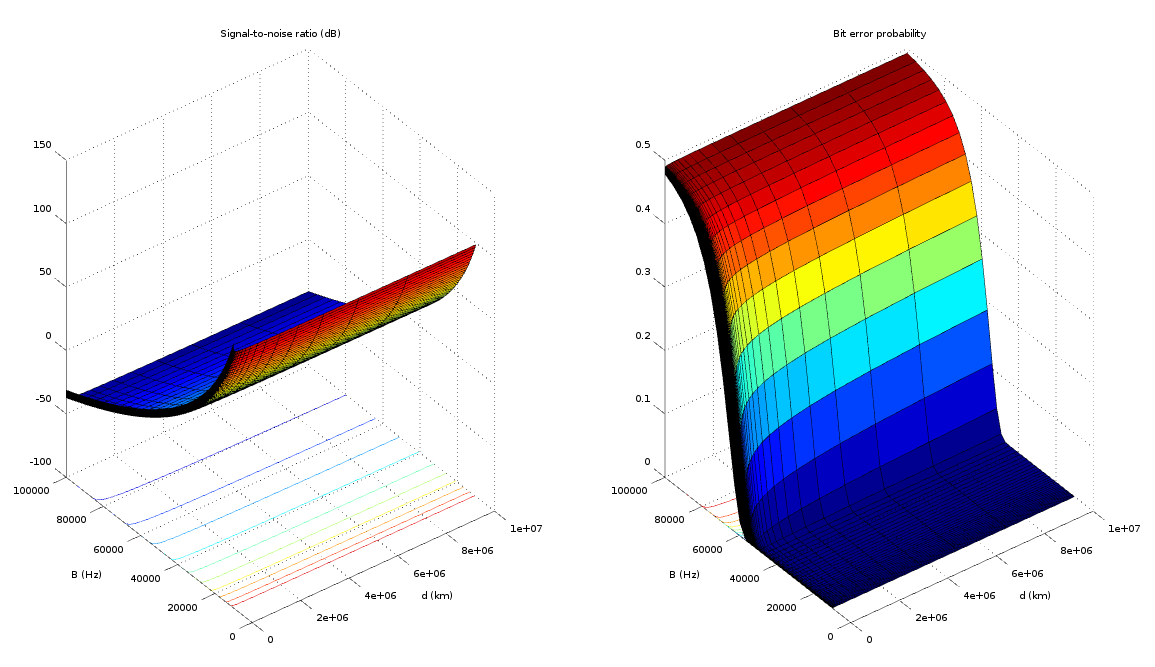
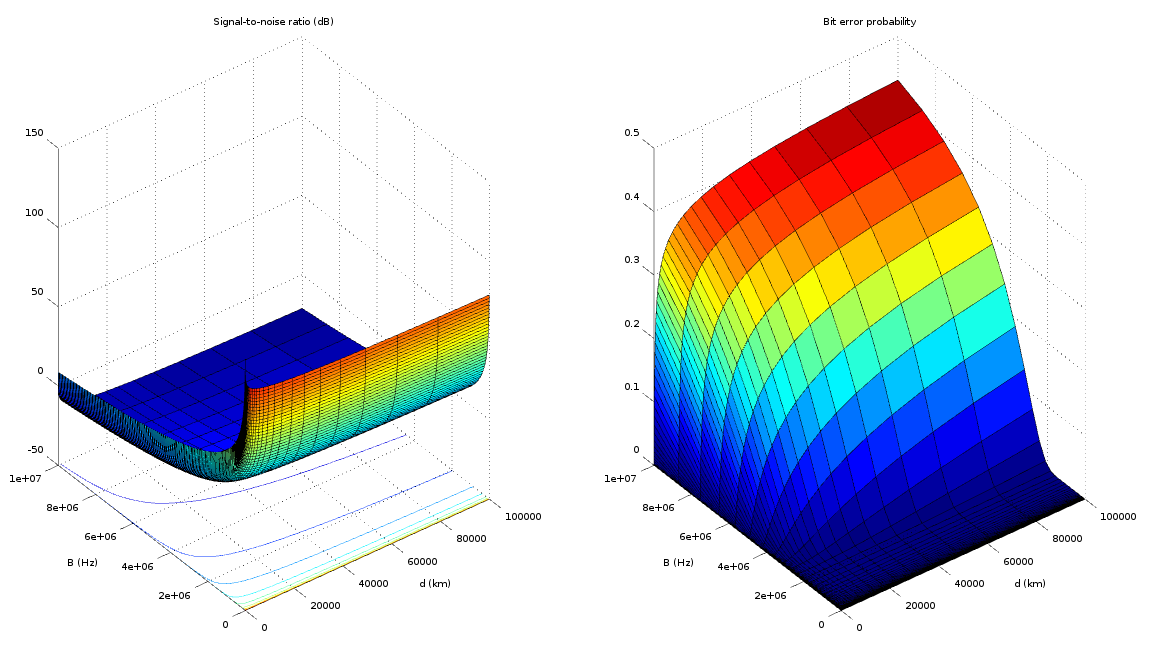
more on proj3

diff --git a/proj3/report/p1.tex b/proj3/report/p1.tex
@@ -60,7 +60,7 @@ Other common sources of signal degradation which are included in the link margin
 \section{$SNR$ and $P_E$}
 
 \subsection{Calculation of signal-to-noise ratio}
-The SNR of the satellite transmission can be calculated as:
+The $SNR$ of the satellite transmission can be calculated as:
 
 \begin{equation}
 	{SNR}_{dB} = P_{R, dB} - P_{int, dB}
@@ -84,7 +84,7 @@ keying (\emph{BPSK}) transmission is calculated as:
 	P_E = Q\left(\sqrt{\frac{2E_b}{N_0}}\right)
 \end{equation}
 
-It is possible to extrapolate the required energy-per-bit-to-noise spectral density ratio $E_b/N_0$ from the SNR figure.
+It is possible to extrapolate the required energy-per-bit-to-noise spectral density ratio $E_b/N_0$ from the $SNR$ figure.
 Multiplying numerator and denominator by the bit duration $T_b$ gives:
 
 \begin{equation}
@@ -97,25 +97,32 @@ keying) transmission, the bandwidth $B$ is $2/T_b$, so the factor $B T_b$ is 2.
 
 \subsection{Impact of parameters $d$, $\lambda$, $B$}
 This section will investigate the different roles of the receiver and transmitter distance, the wavelength of the signal, and its bandwidth, in the calculation of the signal-to-noise ratio and the bit error probability.
-The following figures will show the surfaces generated by the combination of two of the aforementioned parameters:
+The following graphs will show the surfaces generated by the combination of two of the aforementioned parameters:
 
 \begin{itemize}
 	\item $d$ (distance) is given values between 1km and 10000km
 	\item $\lambda$ (wavelength) is given values for frequencies between 300MHz and 300GHz
-	\item $B$ (bandwidth) is given values between 10kHz and 100kHz
+	\item $B$ (bandwidth) is given values between 10kHz and 10MHz
 \end{itemize}
 
 \fig{9cm}{d_lambda.png}{${SNR}_{dB}$ and $P_E$ for different values of distance and wavelength}
 
+As previously introduced, increasing distance and frequency (thus decreasing wavelength) negatively affects the $SNR$ and $P_E$ values.
+The performance decay is quite drastic due to the power-of-two factor in the free-space loss.
 
 \fig{9cm}{lambda_b.png}{${SNR}_{dB}$ and $P_E$ for different values of wavelength and bandwidth}
 
-
 \fig{9cm}{d_b.png}{${SNR}_{dB}$ and $P_E$ for different values of distance and bandwidth}
 
+In the four plots above, it can be noticed how a wider bandwidth does also negatively affect the performance of the system.
+However, it has a minor overall impact compared to distance and wavelength.
+
+The MATLAB code used to generate the figures closely resembles the one used to calculate $SNR$ and $P_E$, and can be found in the appendix.
 
 
 \subsection{Bit error probability at different transmission powers}
+In this section, the impact of the transmitter power will be analyzed, drawing from a sequence of given values.
+All the other parameters in the link budget model will use the values in the literature examples $A.8$ and $A.9$.
 
 
 \section{Alternative modulation methods}
@@ -127,7 +134,29 @@ The following figures will show the surfaces generated by the combination of two
 
 \section{Source code}
 Here follows a thoroughly commented version of the MATLAB script used for the above calculations and observations.
-The code below computes the signal-to-noise ratio and bit error probability for the free-space transmission characterized by its input parameters.
+
+\subsection{$SNR$ and $P_E$}
+The script below computes the signal-to-noise ratio and bit error probability for the free-space transmission characterized by its input parameters.
 
 \begin{lstinputlisting}[language=Octave]{../scripts/satellite.m}
+\end{lstinputlisting}
+
+
+\subsection{$d$, $\lambda$, and $B$}
+The scripts below are used to investigate the relationships between the parameters $d$, $\lambda$, and $B$, and the signal-to-noise ratio and bit error probability.
+
+\begin{lstinputlisting}[language=Octave]{../scripts/satellite_plot_d_lambda.m}
+\end{lstinputlisting}
+
+\begin{lstinputlisting}[language=Octave]{../scripts/satellite_plot_lambda_b.m}
+\end{lstinputlisting}
+
+\begin{lstinputlisting}[language=Octave]{../scripts/satellite_plot_d_b.m}
+\end{lstinputlisting}
+
+
+\subsection{$P_T$}
+The scripts below are used to investigate the impact of the transmitter power on the bit error probability.
+
+\begin{lstinputlisting}[language=Octave]{../scripts/satellite_pt.m}
 \end{lstinputlisting}

diff --git a/proj3/scripts/satellite_pt.m b/proj3/scripts/satellite_pt.m
@@ -7,53 +7,39 @@ pkg load communications
 t_0 = 290;
 % boltzmann constant
 k = 1.38064852e-23;
-% speed of light
-c = 299792458;
 % B * T_b
 bt_b_db = 3;
 
 %%% input parameters
-% distance: logaritmically spaced values between 1km and 100000km
-d = logspace(3, 8, 50);
-f = 2e9;
-% bandwidth: logaritmically spaced values between 10kHz and 10kMHz
-bw = logspace(1, 4, 50).*1000;
-p_t = 100;
+d = 41e6;
+lambda = 0.15;
+bw = 50e3;
+p_t = [50 5 .5];
 g_t_db = 30;
 a_r = 0;
 g_r_db = 0;
 l_0_db = 3;
 t_r = 700;
 
+% mag2db: 20 * log(x)
+% pow2db: 10 * log(x)
+
 % calculate free-space loss
-fsl_db = mag2db(c ./ (4 * pi * f .* d'));
+fsl_db = mag2db(lambda / (4 * pi * d));
 
 % calculate received signal power (A.70)
 p_r_db = fsl_db + pow2db(p_t) + g_t_db + g_r_db - l_0_db;
 
 % calculate noise level power 
 p_int_db = pow2db(k * t_r * bw);  % (A.72)
+% p_int_db = pow2db(k * t_0) + pow2db(t_r / t_0) + pow2db(bw);  % (A.73)
 
 % calculate SNR at receiver output
-snr_0_db = p_r_db - p_int_db;
+snr_0_db = p_r_db - p_int_db
 
 
 % calculate energy-per-bit-to-noise spectral density ratio
 eb_n0_db = snr_0_db + bt_b_db;
 
 % calculate bit error probability
-p_e = qfunc(sqrt(2 * db2pow(eb_n0_db)));
-
-subplot(1, 2, 1);
-surfc(d/1000, bw, snr_0_db);
-title('Signal-to-noise ratio (dB)');
-xlabel('d (km)');
-ylabel('B (Hz)');
-
-subplot(1, 2, 2);
-surfc(d/1000, bw, p_e);
-title('Bit error probability');
-xlabel('d (km)');
-ylabel('B (Hz)');
-
-
+p_e = qfunc(sqrt(2 * db2pow(eb_n0_db)))

diff --git a/proj3/scripts/satellite_plot_lambda_b.m b/proj3/scripts/satellite_plot_lambda_b.m
@@ -15,9 +15,10 @@ bt_b_db = 3;
 %%% input parameters
 d = 41e6;
 % frequency: logaritmically spaced values between 300MHz and 300GHz (RF range)
-f = 3*logspace(8, 11, 50);
-% bandwidth: logaritmically spaced values between 10kHz and 100kHz
-bw = logspace(1, 2, 50)*1000;p_t = 100;
+f = 3.*logspace(8, 11, 50);
+% bandwidth: logaritmically spaced values between 10kHz and 10kMHz
+bw = logspace(1, 4, 50).*1000;
+p_t = 100;
 g_t_db = 30;
 a_r = 0;
 g_r_db = 0;

diff --git a/proj3/scripts/satellite_plot_d_lambda.m b/proj3/scripts/satellite_plot_d_lambda.m
@@ -13,10 +13,10 @@ c = 299792458;
 bt_b_db = 3;
 
 %%% input parameters
-% distance: logaritmically spaced values between 1km and 10km
+% distance: logaritmically spaced values between 1km and 100000km
 d = logspace(3, 8, 50);
 % frequency: logaritmically spaced values between 300MHz and 300GHz (RF range)
-f = 3*logspace(8, 11, 50);
+f = 3.*logspace(8, 11, 50);
 bw = 50e3;
 p_t = 100;
 g_t_db = 30;

diff --git a/proj3/report/root.tex b/proj3/report/root.tex
@@ -1,10 +1,16 @@
 % document infos
 \documentclass[12pt, a4paper, oneside, final]{article}
 \usepackage{listings}
+\usepackage{courier}
 \usepackage{float}
 \usepackage{graphicx}
 \usepackage{caption}
 \usepackage{hyperref}
+
+\lstset{basicstyle=\footnotesize\ttfamily,breaklines=true}
+\lstset{
+  caption=\lstname
+}
 
 \newcommand{\code}[1]{\texttt{#1}}
 
